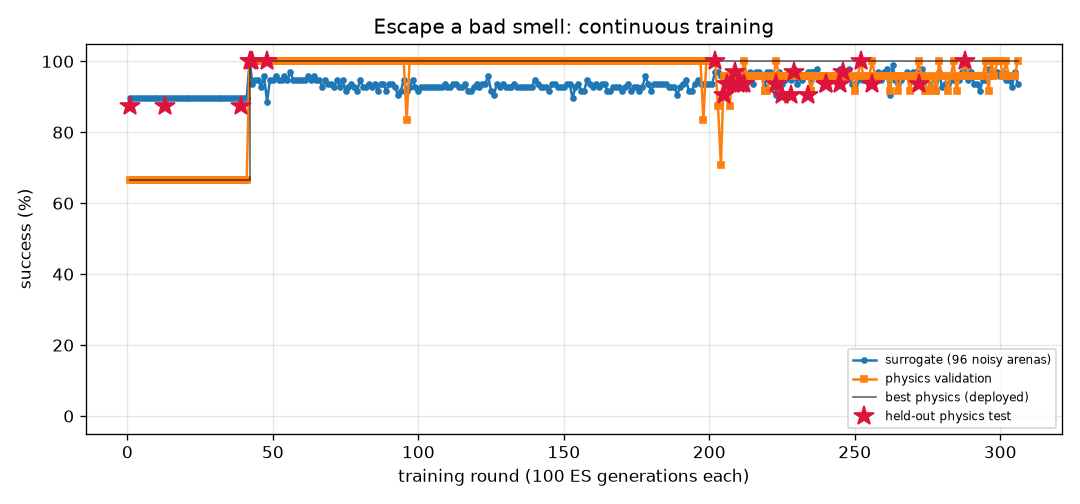
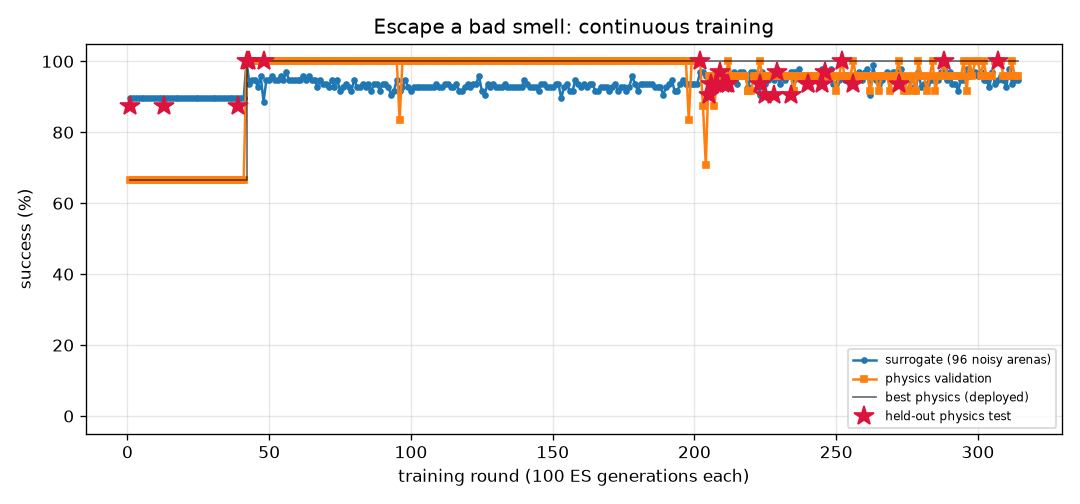
FlyLab: continuous training progress
- walk_forward: optimal, physics val 100% of 24, round 51
- turn: optimal, physics val 100% of 24, round 176
- goto: optimal, physics val 100% of 24, round 52
- odor_seek: optimal, physics val 100% of 24, round 72
- odor_avoid: optimal, physics val 100% of 24, round 314
- light_seek: optimal, physics val 100% of 24, round 231
- light_avoid: optimal, physics val 100% of 24, round 117

diff --git a/projects/09_flylab/training/light_avoid/REPORT.md b/projects/09_flylab/training/light_avoid/REPORT.md
@@ -1,14 +1,14 @@
 # Hide from light (`light_avoid`) — training report
 
-*Auto-generated by `train_brains.py`, last updated 2026-10-05T22:45:29.*
+*Auto-generated by `train_brains.py`, last updated 2026-10-06T20:16:04.*
 
 ![curve](curve.png)
 
 | | |
 |---|---|
-| rounds | 109 |
-| ES generations | 10900 |
-| physics runs | 2856 |
+| rounds | 117 |
+| ES generations | 11700 |
+| physics runs | 3048 |
 | status | **optimal** |
 | best brain | round 45: physics validation **100%** on 24 arenas, surrogate 100% |
 | held-out physics test | **100%** on 32 unseen arenas (95% CI 89%-100%) (errors: [14.4, 28.9, 31.6, 32.2, 31.9, 13.9, 14.5, 34.1, 33.7, 13.3, 14.0, 31.3, 31.1, 13.1, 32.4, 33.8, 32.9, 32.2, 31.7, 32.0, 29.0, 12.3, 31.9, 33.2, 14.2, 13.7, 33.6, 32.5, 33.2, 13.2, 28.1, 33.7]) |
@@ -17,14 +17,6 @@ Physics error per arena: mm gained away from source (> 6 without first approachi
 
 | round | level | gens | sigma | surrogate | physics val | val errors | test | note |
 |---:|---:|---:|---:|---:|---:|---|---:|---|
-| 70 | 3 | 7000 | 0.024 | 100% | 100% | [47.8, 49.4, 49.3, 48.1, 47.7, 48.2, 48.4, 14.5, 43.8, 13.3, 47.7, 47.5, 14.4, 49.0, 49.4, 47.6, 14.2, 48.4, 49.7, 14.4, 46.8, 47.5, 48.2, 46.9] |  |  |
-| 71 | 3 | 7100 | 0.024 | 100% | 100% | [34.8, 35.4, 34.9, 35.6, 38.2, 36.1, 32.8, 14.5, 33.5, 12.9, 33.2, 38.5, 14.4, 36.0, 34.9, 37.3, 14.2, 37.9, 36.2, 14.4, 38.3, 33.7, 32.3, 38.3] |  |  |
-| 72 | 3 | 7200 | 0.024 | 100% | 100% | [50.1, 52.1, 52.0, 50.1, 49.3, 50.3, 51.6, 14.5, 47.0, 13.1, 50.3, 49.1, 14.4, 52.0, 52.1, 50.0, 14.2, 50.3, 52.0, 14.4, 49.5, 50.6, 51.3, 48.0] |  |  |
-| 73 | 3 | 7300 | 0.024 | 100% | 100% | [39.1, 38.6, 38.9, 39.6, 42.9, 37.9, 35.4, 14.5, 36.0, 13.2, 34.0, 41.5, 14.4, 38.0, 37.1, 38.6, 14.2, 42.7, 38.6, 14.4, 36.7, 37.6, 34.1, 41.9] |  | restart from best |
-| 74 | 3 | 7400 | 0.024 | 100% | 100% | [30.3, 27.7, 27.1, 28.6, 30.2, 28.5, 24.6, 14.5, 26.3, 13.3, 28.7, 28.2, 14.4, 28.6, 27.7, 31.5, 14.2, 28.8, 28.5, 14.4, 29.9, 27.1, 24.9, 28.8] |  |  |
-| 75 | 3 | 7500 | 0.024 | 100% | 100% | [35.9, 36.4, 36.9, 36.6, 38.2, 36.7, 34.4, 14.5, 35.7, 13.2, 39.2, 38.3, 14.4, 39.1, 37.0, 38.9, 14.2, 38.2, 37.1, 14.4, 36.4, 38.4, 34.5, 38.0] |  |  |
-| 76 | 3 | 7600 | 0.024 | 97% | 100% | [24.0, 25.3, 24.7, 24.5, 27.8, 24.5, 23.2, 14.5, 26.1, 13.1, 27.1, 26.5, 14.4, 27.8, 24.5, 16.4, 14.2, 26.8, 25.9, 14.4, 8.2, 26.6, 21.1, 27.7] |  |  |
-| 77 | 3 | 7700 | 0.026 | 93% | 96% | [6.2, 42.9, 43.0, 7.4, 39.0, 4.4, 43.3, 14.5, 37.2, 13.5, 35.9, 38.6, 14.4, 37.7, 43.1, 9.0, 14.2, 40.2, 43.1, 14.4, 8.7, 38.1, 42.4, 37.4] |  | restart from best |
 | 78 | 3 | 7800 | 0.024 | 100% | 100% | [47.1, 48.0, 47.8, 47.2, 47.4, 47.4, 46.7, 14.5, 39.2, 13.4, 45.2, 47.1, 14.4, 47.8, 47.9, 47.0, 14.2, 48.0, 48.3, 14.4, 45.4, 46.5, 46.6, 46.6] |  |  |
 | 79 | 3 | 7900 | 0.024 | 100% | 100% | [52.1, 55.2, 54.9, 51.9, 54.8, 52.1, 53.6, 14.5, 48.0, 13.3, 53.6, 54.7, 14.4, 54.7, 55.0, 51.2, 14.2, 55.3, 55.4, 14.4, 53.4, 54.3, 53.5, 54.0] |  |  |
 | 80 | 3 | 8000 | 0.024 | 99% | 100% | [36.2, 35.8, 35.7, 36.1, 33.7, 36.1, 35.0, 14.5, 13.0, 13.4, 10.0, 33.3, 14.4, 29.2, 35.8, 37.1, 14.2, 34.3, 35.9, 14.4, 37.1, 10.9, 34.6, 32.6] |  |  |
@@ -57,3 +49,11 @@ Physics error per arena: mm gained away from source (> 6 without first approachi
 | 107 | 3 | 10700 | 0.024 | 100% | 100% | [52.9, 55.1, 55.0, 53.5, 54.3, 52.1, 53.9, 14.5, 47.7, 13.4, 53.3, 54.1, 14.3, 54.6, 55.1, 52.2, 14.2, 54.8, 55.4, 14.4, 51.2, 53.4, 53.7, 53.5] |  |  |
 | 108 | 3 | 10800 | 0.024 | 100% | 100% | [42.1, 41.0, 40.4, 41.9, 42.8, 40.4, 39.0, 14.5, 38.5, 13.1, 40.0, 43.0, 14.4, 41.1, 41.1, 42.3, 14.2, 43.2, 41.7, 14.4, 42.2, 40.2, 38.5, 43.7] |  |  |
 | 109 | 3 | 10900 | 0.024 | 100% | 100% | [43.3, 45.2, 44.7, 45.5, 48.9, 45.0, 42.1, 14.5, 43.5, 13.1, 44.5, 49.3, 14.4, 45.8, 44.9, 43.8, 14.2, 48.6, 45.0, 14.4, 41.9, 45.0, 41.9, 48.9] |  | restart from best |
+| 110 | 3 | 11000 | 0.024 | 100% | 100% | [42.6, 43.2, 42.9, 43.3, 44.7, 43.6, 40.7, 14.5, 40.6, 13.4, 43.5, 44.8, 14.4, 42.3, 42.6, 44.5, 14.2, 44.8, 43.0, 14.4, 41.5, 43.4, 41.3, 44.4] |  |  |
+| 111 | 3 | 11100 | 0.024 | 99% | 100% | [31.3, 30.8, 30.5, 31.1, 33.2, 31.6, 28.8, 14.5, 12.7, 13.3, 31.4, 33.3, 14.4, 30.9, 30.6, 32.4, 14.2, 32.2, 31.8, 14.4, 31.3, 30.1, 28.3, 32.7] |  |  |
+| 112 | 3 | 11200 | 0.025 | 99% | 100% | [31.8, 31.0, 30.7, 31.1, 33.7, 31.5, 28.2, 14.5, 13.0, 13.4, 9.9, 33.8, 14.4, 31.9, 30.5, 32.1, 14.2, 34.1, 31.4, 14.4, 31.9, 10.8, 28.3, 34.2] |  |  |
+| 113 | 3 | 11300 | 0.025 | 97% | 96% | [32.3, 33.1, 32.8, 33.1, 36.6, 32.5, 31.1, 14.5, 13.0, 13.4, 10.2, 36.8, 14.4, 7.8, 33.2, 33.6, 14.2, 36.3, 34.0, 14.4, 30.8, 11.3, 30.6, 36.7] |  | restart from best |
+| 114 | 3 | 11400 | 0.024 | 100% | 100% | [41.1, 42.2, 41.4, 41.7, 43.0, 42.2, 39.8, 14.5, 41.0, 13.1, 43.0, 43.4, 14.4, 43.3, 41.6, 41.6, 14.2, 43.8, 42.0, 14.4, 40.3, 43.6, 39.0, 43.2] |  |  |
+| 115 | 3 | 11500 | 0.024 | 100% | 100% | [39.3, 39.6, 38.6, 40.0, 42.9, 39.3, 37.0, 14.5, 34.1, 13.3, 42.1, 43.1, 14.4, 41.3, 39.2, 42.2, 14.2, 43.0, 39.8, 14.4, 37.8, 41.2, 36.6, 43.1] |  |  |
+| 116 | 3 | 11600 | 0.024 | 100% | 100% | [47.2, 47.8, 47.2, 48.4, 51.1, 47.0, 45.2, 14.5, 50.3, 13.3, 51.7, 51.3, 14.4, 51.2, 47.1, 47.5, 14.2, 51.0, 48.3, 14.4, 44.3, 51.2, 46.1, 52.2] |  |  |
+| 117 | 3 | 11700 | 0.024 | 100% | 96% | [51.0, 52.8, 52.5, 51.8, 52.4, 50.1, 51.3, 14.5, 41.6, 13.3, 51.3, 52.1, 14.4, 52.3, 52.7, 50.7, 14.2, 52.8, 53.2, 14.4, 51.1, 50.9, 51.0, 51.7] |  | restart from best |

diff --git a/projects/09_flylab/training/odor_avoid/REPORT.md b/projects/09_flylab/training/odor_avoid/REPORT.md
@@ -1,14 +1,14 @@
 # Escape a bad smell (`odor_avoid`) — training report
 
-*Auto-generated by `train_brains.py`, last updated 2026-10-05T21:47:41.*
+*Auto-generated by `train_brains.py`, last updated 2026-10-06T20:19:09.*
 
 ![curve](curve.png)
 
 | | |
 |---|---|
-| rounds | 306 |
-| ES generations | 30600 |
-| physics runs | 4522 |
+| rounds | 314 |
+| ES generations | 31400 |
+| physics runs | 4746 |
 | status | **optimal** |
 | best brain | round 288: physics validation **100%** on 24 arenas, surrogate 98% |
 | held-out physics test | **100%** on 32 unseen arenas (95% CI 89%-100%) (errors: [61.2, 57.1, 61.4, 61.0, 13.5, 61.1, 61.1, 60.7, 60.0, 56.9, 60.8, 56.8, 60.8, 60.0, 58.7, 59.7, 60.7, 54.4, 60.9, 54.7, 61.1, 60.5, 57.7, 58.7, 59.8, 55.9, 55.7, 45.8, 55.9, 58.2, 59.2, 28.5]) |
@@ -17,14 +17,6 @@ Physics error per arena: mm gained away from source (> 6 without first approachi
 
 | round | level | gens | sigma | surrogate | physics val | val errors | test | note |
 |---:|---:|---:|---:|---:|---:|---|---:|---|
-| 267 | 3 | 26700 | 0.027 | 96% | 96% | [51.1, 48.1, 48.1, 48.0, 51.0, 48.8, 50.0, 31.3, 50.2, 42.2, 47.0, 51.5, 43.9, 46.7, 35.3, 50.7, 51.5, 50.2, 44.3, 45.9, 51.6, 48.5, 48.3, 45.2] |  |  |
-| 268 | 3 | 26800 | 0.026 | 97% | 96% | [50.5, 48.7, 47.7, 49.6, 50.2, 49.3, 51.1, 31.2, 50.3, 49.9, 50.3, 51.0, 44.9, 46.7, 37.0, 49.7, 50.9, 49.1, 45.3, 46.7, 51.2, 50.1, 49.8, 48.3] |  | restart from best |
-| 269 | 3 | 26900 | 0.026 | 96% | 92% | [54.3, 50.8, 50.7, 50.9, 51.2, 42.3, 52.1, 49.1, 52.2, 14.4, 2.6, 54.2, 46.7, 50.3, 30.3, 47.1, 54.1, 36.0, 47.1, 48.8, 53.9, 30.4, 50.8, 51.0] |  |  |
-| 270 | 3 | 27000 | 0.026 | 97% | 96% | [56.7, 54.0, 53.4, 54.3, 56.5, 54.8, 55.3, 38.3, 55.7, 46.0, 37.8, 56.9, 48.7, 53.4, 39.4, 55.9, 56.5, 54.4, 50.7, 50.5, 56.6, 52.1, 54.5, 49.9] |  |  |
-| 271 | 3 | 27100 | 0.026 | 97% | 96% | [55.0, 51.8, 50.1, 51.8, 51.1, 52.2, 51.9, 53.5, 52.2, 53.3, 35.8, 52.4, 42.1, 45.5, 30.0, 51.2, 51.2, 50.6, 44.7, 51.6, 51.4, 54.0, 52.0, 53.3] |  |  |
-| 272 | 3 | 27200 | 0.026 | 96% | 100% | [58.0, 54.4, 53.9, 55.9, 58.4, 57.9, 58.4, 58.3, 58.6, 58.0, 58.4, 58.6, 53.2, 54.7, 49.7, 58.6, 58.8, 58.2, 53.1, 54.2, 58.2, 58.1, 55.7, 57.2] | 94% | new best |
-| 273 | 3 | 27300 | 0.026 | 98% | 96% | [58.1, 55.5, 53.8, 53.4, 57.6, 56.3, 56.2, 40.0, 56.4, 51.6, 32.2, 58.0, 48.1, 50.3, 16.8, 57.8, 58.3, 55.1, 49.3, 53.7, 58.3, 47.9, 51.2, 42.3] |  |  |
-| 274 | 3 | 27400 | 0.025 | 92% | 92% | [56.1, 54.8, 53.2, 55.3, 55.6, 55.0, 56.0, 2.3, 55.4, 54.9, 55.7, 55.2, 48.5, 52.9, 33.1, 55.3, 55.6, 55.4, 51.0, 52.6, 55.3, 54.1, 55.3, 31.4] |  |  |
 | 275 | 3 | 27500 | 0.029 | 96% | 96% | [54.9, 53.3, 51.0, 52.7, 54.5, 52.2, 55.4, 24.3, 55.1, 35.3, 12.9, 55.2, 47.7, 48.8, 27.1, 53.7, 55.1, 48.6, 46.8, 51.0, 55.4, 50.5, 54.3, 53.2] |  |  |
 | 276 | 3 | 27600 | 0.026 | 93% | 92% | [51.7, 46.5, 47.7, 46.5, 33.0, 36.7, 52.2, 48.7, 52.1, 48.1, 2.9, 51.7, 36.8, 45.2, 19.9, 37.5, 50.9, 32.0, 43.0, 46.2, 51.3, 48.8, 49.3, 49.9] |  | restart from best |
 | 277 | 3 | 27700 | 0.026 | 96% | 96% | [56.9, 56.2, 52.6, 56.1, 56.4, 56.1, 56.9, 15.2, 56.9, 56.0, 55.8, 56.7, 49.0, 52.4, 43.4, 56.5, 56.9, 56.2, 52.1, 53.7, 57.0, 53.6, 54.9, 26.9] |  |  |
@@ -57,3 +49,11 @@ Physics error per arena: mm gained away from source (> 6 without first approachi
 | 304 | 3 | 30400 | 0.027 | 93% | 96% | [59.9, 57.7, 55.2, 59.1, 60.3, 59.6, 58.4, 58.3, 59.6, 59.3, 60.3, 59.9, 53.8, 56.5, 50.6, 60.0, 60.3, 59.7, 53.7, 55.6, 60.4, 58.8, 58.9, 59.3] |  | restart from best |
 | 305 | 3 | 30500 | 0.025 | 97% | 96% | [63.0, 60.9, 56.1, 59.1, 62.3, 62.1, 61.0, 50.0, 60.8, 61.5, 61.5, 61.9, 53.3, 56.1, 36.4, 61.0, 61.6, 60.7, 55.1, 59.6, 61.7, 61.7, 58.8, 58.8] |  |  |
 | 306 | 3 | 30600 | 0.026 | 94% | 100% | [60.9, 60.0, 55.5, 60.0, 55.0, 55.1, 61.2, 58.5, 61.4, 41.8, 6.4, 61.1, 49.1, 53.6, 37.1, 59.8, 60.9, 48.8, 50.8, 57.0, 61.1, 59.9, 59.1, 60.6] |  |  |
+| 307 | 3 | 30700 | 0.028 | 95% | 100% | [62.4, 60.6, 55.2, 60.7, 60.5, 61.6, 62.1, 60.0, 61.9, 60.7, 37.6, 61.6, 52.7, 55.3, 25.8, 61.7, 61.9, 61.3, 51.5, 59.4, 61.5, 60.9, 61.2, 61.9] | 100% |  |
+| 308 | 3 | 30800 | 0.025 | 96% | 100% | [61.9, 60.3, 56.3, 60.6, 60.7, 60.7, 60.0, 61.3, 60.9, 60.2, 59.7, 61.0, 47.0, 50.6, 34.5, 61.1, 61.3, 59.2, 50.6, 60.4, 61.3, 61.4, 59.4, 61.9] |  |  |
+| 309 | 3 | 30900 | 0.026 | 95% | 96% | [62.5, 57.4, 56.3, 55.3, 60.4, 61.4, 59.2, 46.1, 59.2, 43.6, 59.8, 61.0, 52.4, 55.6, 42.8, 61.3, 61.6, 61.5, 54.5, 56.8, 61.4, 56.6, 56.9, 55.3] |  |  |
+| 310 | 3 | 31000 | 0.027 | 93% | 96% | [62.8, 57.3, 52.9, 54.6, 59.1, 60.9, 56.2, 35.7, 59.9, 54.6, 59.6, 61.0, 52.6, 55.5, 42.5, 60.5, 60.8, 58.1, 49.3, 56.4, 61.0, 59.4, 57.1, 58.9] |  |  |
+| 311 | 3 | 31100 | 0.028 | 98% | 96% | [63.5, 57.2, 56.1, 57.6, 61.8, 62.3, 61.3, 59.9, 60.0, 61.8, 61.6, 62.0, 54.6, 56.4, 48.0, 62.1, 62.1, 62.2, 55.1, 56.9, 62.0, 61.7, 57.4, 61.3] |  | restart from best |
+| 312 | 3 | 31200 | 0.025 | 94% | 100% | [59.2, 55.9, 55.3, 58.8, 61.0, 60.7, 60.5, 51.2, 59.9, 59.2, 60.6, 60.6, 54.1, 56.3, 47.6, 60.2, 61.2, 60.6, 54.6, 54.7, 60.4, 45.4, 58.3, 41.9] |  |  |
+| 313 | 3 | 31300 | 0.028 | 95% | 96% | [58.7, 54.4, 53.8, 55.9, 59.1, 59.1, 59.1, 37.9, 58.1, 58.3, 31.2, 59.6, 51.8, 52.9, 45.3, 59.2, 58.9, 59.2, 52.1, 51.8, 59.3, 42.0, 55.9, 56.0] |  |  |
+| 314 | 3 | 31400 | 0.027 | 95% | 96% | [57.6, 54.4, 53.8, 54.5, 53.9, 55.6, 57.9, 55.9, 57.4, 54.9, 27.6, 58.2, 46.6, 52.3, -0.8, 55.3, 58.3, 55.1, 47.4, 52.9, 57.9, 56.0, 51.0, 56.3] |  |  |

diff --git a/projects/09_flylab/training/turn/REPORT.md b/projects/09_flylab/training/turn/REPORT.md
@@ -1,14 +1,14 @@
 # Turn in place (`turn`) — training report
 
-*Auto-generated by `train_brains.py`, last updated 2026-10-06T19:18:42.*
+*Auto-generated by `train_brains.py`, last updated 2026-10-06T19:26:03.*
 
 ![curve](curve.png)
 
 | | |
 |---|---|
-| rounds | 175 |
-| ES generations | 17500 |
-| physics runs | 4446 |
+| rounds | 176 |
+| ES generations | 17600 |
+| physics runs | 4470 |
 | status | **optimal** |
 | best brain | round 80: physics validation **100%** on 24 arenas, surrogate 100% |
 | held-out physics test | **97%** on 32 unseen arenas (95% CI 84%-99%) (errors: [1.6, 3.3, 6.3, 3.7, 1.1, 0.4, 2.4, 2.9, 0.1, 2.6, 0.5, 2.7, 1.5, 3.1, 4.5, 0.2, 0.5, 1.1, 2.0, 4.4, 2.8, 3.2, 0.3, 2.2, 0.5, 3.0, 0.3, 5.4, 0.4, 1.0, 4.7, 10.7]) |
@@ -17,7 +17,6 @@ Physics error per arena: deg from target heading (< 20 = success).
 
 | round | level | gens | sigma | surrogate | physics val | val errors | test | note |
 |---:|---:|---:|---:|---:|---:|---|---:|---|
-| 136 | 3 | 13600 | 0.025 | 96% | 92% | [11.6, 11.2, 0.5, 1.9, 4.0, 6.2, 2.2, 6.1, 1.1, 2.2, 1.6, 4.0, 1.3, 5.6, 0.7, 3.3, 3.9, 1.6, 1.1, 3.3, 5.5, 4.6, 2.5, 8.1] |  | restart from best |
 | 137 | 3 | 13700 | 0.024 | 99% | 71% | [1.7, 3.0, 4.1, 0.4, 8.0, 118.4, 5.7, 9.4, 7.0, 2.3, 5.1, 1.9, 1.5, 0.4, 6.4, 4.4, 2.4, 2.5, 3.5, 1.7, 1.8, 3.0, 9.2, 5.3] |  |  |
 | 138 | 3 | 13800 | 0.025 | 100% | 96% | [0.1, 5.2, 0.4, 2.1, 2.7, 0.7, 5.1, 6.9, 3.8, 0.5, 2.9, 1.5, 1.5, 0.6, 3.3, 0.1, 1.3, 1.0, 0.2, 0.3, 3.5, 1.7, 5.6, 3.4] |  |  |
 | 139 | 3 | 13900 | 0.024 | 100% | 96% | [5.6, 9.1, 1.4, 5.1, 11.2, 0.3, 3.5, 4.7, 2.7, 10.5, 3.5, 2.0, 3.2, 3.2, 3.2, 0.4, 1.5, 1.8, 4.9, 0.6, 6.4, 0.3, 2.2, 0.8] |  |  |
@@ -57,3 +56,4 @@ Physics error per arena: deg from target heading (< 20 = success).
 | 173 | 3 | 17300 | 0.024 | 100% | 100% | [1.7, 13.0, 2.4, 1.6, 3.2, 5.1, 6.9, 6.7, 7.3, 3.0, 5.4, 2.5, 1.1, 0.8, 6.1, 3.8, 2.7, 1.7, 10.1, 10.3, 2.7, 1.6, 6.7, 1.6] |  |  |
 | 174 | 3 | 17400 | 0.024 | 99% | 100% | [3.1, 2.3, 4.9, 3.3, 12.7, 6.4, 4.5, 6.8, 5.5, 4.1, 4.1, 1.0, 2.0, 0.1, 4.8, 0.6, 0.7, 2.0, 3.0, 1.3, 2.7, 1.7, 5.7, 2.0] |  |  |
 | 175 | 3 | 17500 | 0.025 | 98% | 92% | [6.8, 6.6, 7.3, 2.4, 1.5, 0.9, 4.0, 0.8, 3.6, 1.0, 3.5, 0.7, 2.7, 4.1, 3.1, 1.2, 0.6, 1.0, 0.9, 1.5, 5.8, 1.3, 2.0, 3.7] |  |  |
+| 176 | 3 | 17600 | 0.025 | 98% | 83% | [13.5, 7.8, 14.1, 3.1, 1.8, 18.5, 10.7, 12.2, 9.4, 4.3, 5.3, 3.6, 1.4, 3.2, 6.1, 8.4, 4.0, 18.7, 17.8, 4.5, 2.2, 5.7, 9.1, 11.2] |  | restart from best |

diff --git a/projects/09_flylab/training/TRAINING.md b/projects/09_flylab/training/TRAINING.md
@@ -1,15 +1,15 @@
 # FlyLab brains — continuous training log
 
-*Auto-generated by `train_brains.py`, last updated 2026-10-06T19:19:04.*
+*Auto-generated by `train_brains.py`, last updated 2026-10-06T20:19:09.*
 
 Every skill has its own brain and its own training process: surrogate ES rounds, physics validation in MuJoCo, keep-the-best selection, and a held-out physics test that is never used for selection. See each skill's report for its full round-by-round history. Mastery is progressive: passing a level (100% physics validation, >=95% surrogate) doubles the validation and test arena sets; a brain is **optimal** once it holds up at level 3 (>=95% of 24 validation arenas) AND scores >=90% on the 32 held-out test arenas. Test columns show 95% Wilson confidence intervals.
 
 | skill | rounds | ES generations | physics runs | surrogate | physics val | **physics test** | status |
 |---|---:|---:|---:|---:|---:|---:|---|
 | [Walk forward](walk_forward/REPORT.md) | 51 | 5100 | 1142 | 100% | 100% of 24 | 100% of 32 (CI 89-100%) | **optimal** |
-| [Turn in place](turn/REPORT.md) | 175 | 17500 | 4446 | 100% | 100% of 24 | 97% of 32 (CI 84-99%) | **optimal** |
+| [Turn in place](turn/REPORT.md) | 176 | 17600 | 4470 | 100% | 100% of 24 | 97% of 32 (CI 84-99%) | **optimal** |
 | [Go to a location](goto/REPORT.md) | 52 | 5200 | 1038 | 100% | 100% of 24 | 100% of 32 (CI 89-100%) | **optimal** |
 | [Find food by smell](odor_seek/REPORT.md) | 72 | 7200 | 966 | 100% | 100% of 24 | 100% of 32 (CI 89-100%) | **optimal** |
-| [Escape a bad smell](odor_avoid/REPORT.md) | 306 | 30600 | 4522 | 98% | 100% of 24 | 100% of 32 (CI 89-100%) | **optimal** |
+| [Escape a bad smell](odor_avoid/REPORT.md) | 314 | 31400 | 4746 | 98% | 100% of 24 | 100% of 32 (CI 89-100%) | **optimal** |
 | [Walk toward light](light_seek/REPORT.md) | 231 | 23100 | 2264 | 100% | 100% of 24 | 97% of 32 (CI 84-99%) | **optimal** |
-| [Hide from light](light_avoid/REPORT.md) | 109 | 10900 | 2856 | 100% | 100% of 24 | 100% of 32 (CI 89-100%) | **optimal** |
+| [Hide from light](light_avoid/REPORT.md) | 117 | 11700 | 3048 | 100% | 100% of 24 | 100% of 32 (CI 89-100%) | **optimal** |
